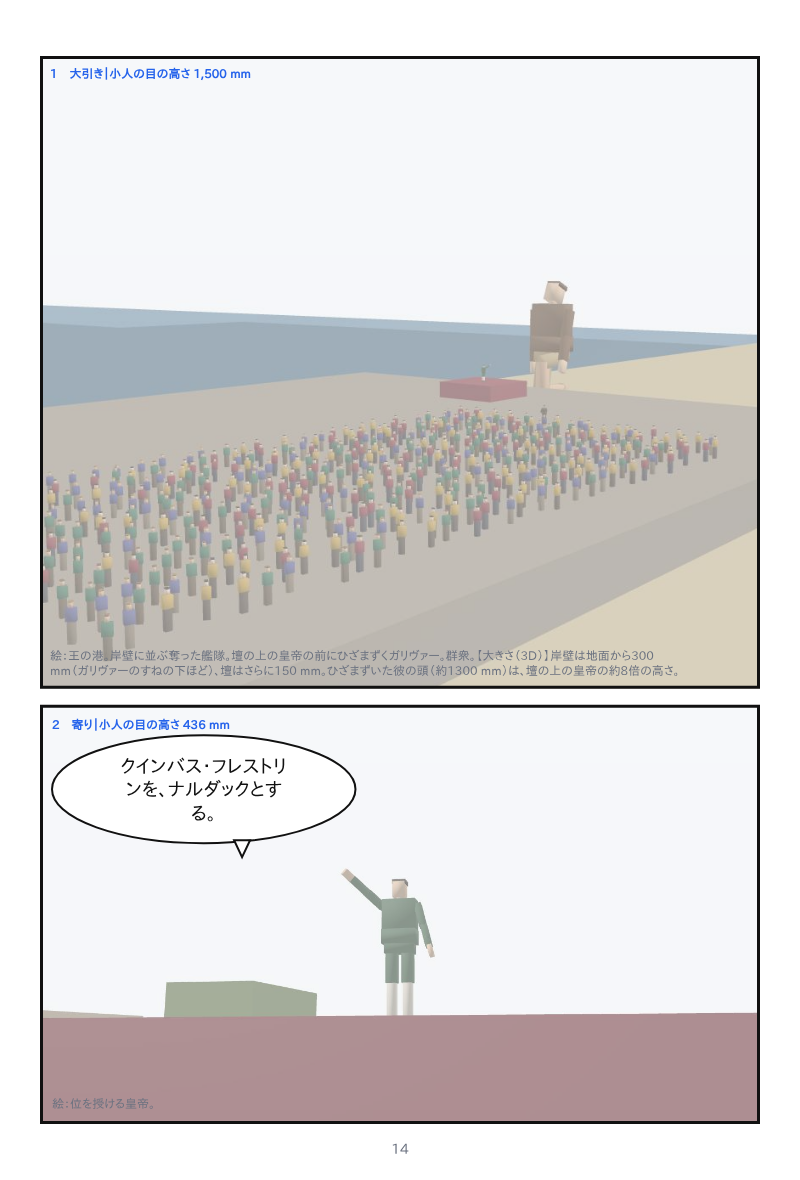
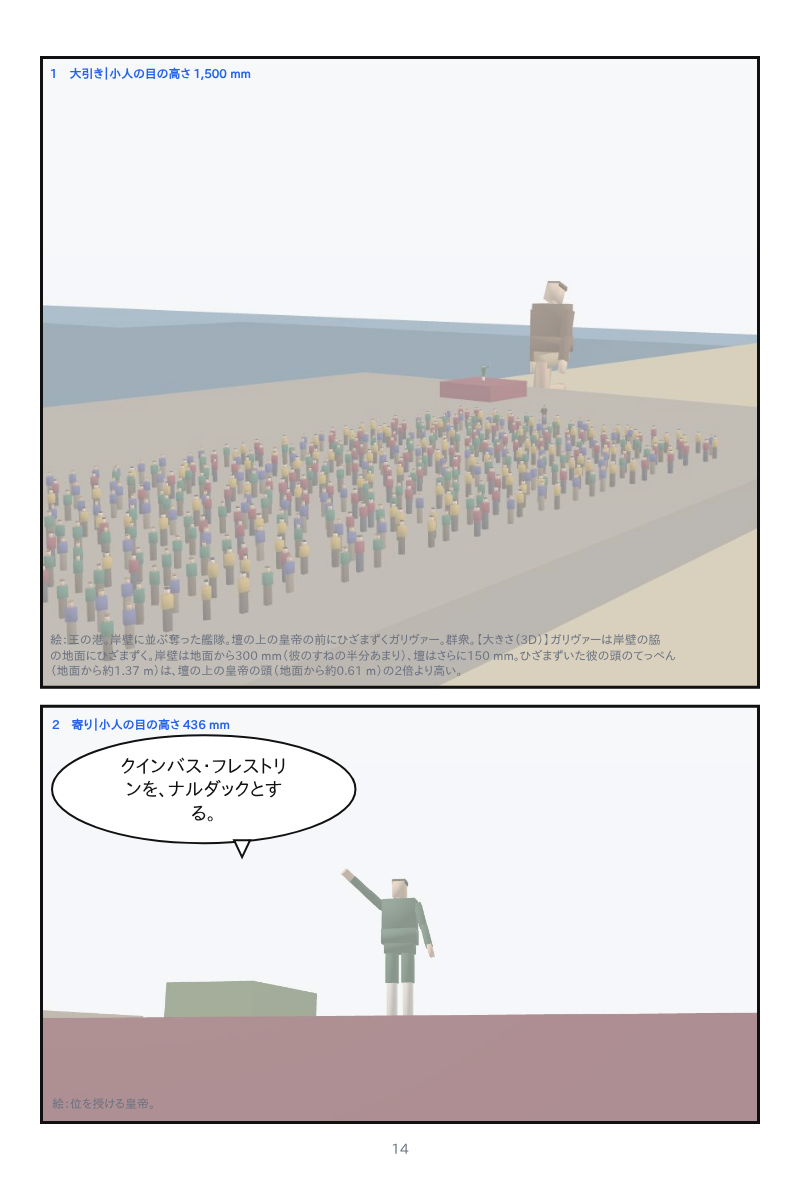
第3話ネーム：門・浅瀬・港のコマの大きさの数字を3Dの舞台に合わせる
- 6-4：神殿の門は約1.2 m（起こした頭の倍より高い）
- 13-2：水深300 mm の浅瀬なので膝は水面から約200 mm
- 14-1・15-1：ガリヴァーは岸壁の脇の地面にひざまずく（頭は地面から約1.37 m）

Claude-Session: https://claude.ai/code/session_01XJNGYHfC5R2ajPckUiqCxE

Changed region(s): [[0.0625, 0.5186, 0.8438, 0.5797]]

diff --git a/part1/name/gulliver-ep03-name.ts b/part1/name/gulliver-ep03-name.ts
@@ -93,7 +93,7 @@ export const EP03_NAME: NamePage[] = [
           { take: 1, shot: '寄り', cam: L('手のひらの脇から、礼をするレルドレサルを', 130), art: '深く礼をするレルドレサル。細い目が笑う。', w: 0.8 },
         ],
       },
-      { h: 4, panels: [{ take: 1, shot: '引き', cam: L('神殿の前の広場の端から、夕方、寝そべるガリヴァーと手のひらの小人を', 650), art: '夕方。寝そべるガリヴァーと、手のひらの上の小さな男。笑わないガリヴァーの顔。【大きさ（3D）】小人の背（150 mm）は、ガリヴァーの手の長さ（約190 mm）に少し足りない。神殿の扉は、寝そべるガリヴァーの肩ほどの高さ。', size: true }] },
+      { h: 4, panels: [{ take: 1, shot: '引き', cam: L('神殿の前の広場の端から、夕方、寝そべるガリヴァーと手のひらの小人を', 650), art: '夕方。寝そべるガリヴァーと、手のひらの上の小さな男。笑わないガリヴァーの顔。【大きさ（3D）】小人の背（150 mm）は、ガリヴァーの手の長さ（約190 mm）に少し足りない。神殿の門（高さ約1.2 m）は、肘をついて起こしたガリヴァーの頭のてっぺん（地面から約0.53 m）の倍より高い。', size: true }] },
     ],
   },
   // SC-010 艦隊（7ページ）
@@ -159,7 +159,7 @@ export const EP03_NAME: NamePage[] = [
     scene: 'SC-010',
     tiers: [
       { h: 5, panels: [{ take: 1, shot: '引き', cam: L('リリパットの浜の宮廷の後ろから、海を'), art: 'リリパットの浜で待つ皇帝と廷臣たち。海から頭だけが見え、その後ろを艦隊だけが進んでくる。不安な顔の宮廷。【大きさ（3D）】海から出たガリヴァーの頭（約250 mm）は、廷臣（150 mm）の背より大きい。', size: true }] },
-      { h: 5, panels: [{ take: 1, shot: '中', cam: L('浜の地面から、海から立ち上がるガリヴァーを見上げる'), art: '浅瀬で立ち上がり、綱を掲げて叫ぶガリヴァー。手前に驚く皇帝の背中。【大きさ（3D）】立ったガリヴァーの膝（約500 mm）は、皇帝（約160 mm）の3倍の高さ。【細い物（LN-e02-04）】掲げる綱は指より細い。', size: true }] },
+      { h: 5, panels: [{ take: 1, shot: '中', cam: L('浜の地面から、海から立ち上がるガリヴァーを見上げる'), art: '浅瀬で立ち上がり、綱を掲げて叫ぶガリヴァー。手前に驚く皇帝の背中。【大きさ（3D）】ガリヴァーは水深300 mm の浅瀬に立つので、膝は水面から約200 mm で、皇帝の背（約160 mm）より少し高いだけ。頭のてっぺんは水面から約1.45 m、皇帝の約9倍。【細い物（LN-e02-04）】掲げる綱は指より細い。', size: true }] },
     ],
   },
   // SC-011 ナルダック（3ページ）
@@ -167,14 +167,14 @@ export const EP03_NAME: NamePage[] = [
     scene: 'SC-011',
     turn: 'めくると王の港。',
     tiers: [
-      { h: 6, panels: [{ take: 1, shot: '大引き', cam: L('港の家並みの上から、岸壁と艦隊とひざまずくガリヴァーを', 1500), art: '王の港。岸壁に並ぶ奪った艦隊。壇の上の皇帝の前にひざまずくガリヴァー。群衆。【大きさ（3D）】岸壁は地面から300 mm（ガリヴァーのすねの下ほど）、壇はさらに150 mm。ひざまずいた彼の頭（約1300 mm）は、壇の上の皇帝の約8倍の高さ。', size: true }] },
+      { h: 6, panels: [{ take: 1, shot: '大引き', cam: L('港の家並みの上から、岸壁と艦隊とひざまずくガリヴァーを', 1500), art: '王の港。岸壁に並ぶ奪った艦隊。壇の上の皇帝の前にひざまずくガリヴァー。群衆。【大きさ（3D）】ガリヴァーは岸壁の脇の地面にひざまずく。岸壁は地面から300 mm（彼のすねの半分あまり）、壇はさらに150 mm。ひざまずいた彼の頭のてっぺん（地面から約1.37 m）は、壇の上の皇帝の頭（地面から約0.61 m）の2倍より高い。', size: true }] },
       { h: 4, panels: [{ take: 1, shot: '寄り', cam: L('壇の脇の岸壁から、皇帝を', QUAY), art: '位を授ける皇帝。' }] },
     ],
   },
   {
     scene: 'SC-011',
     tiers: [
-      { h: 3, panels: [{ take: 1, shot: '中', cam: L('岸壁の上から、ひざまずくガリヴァーを見上げる', QUAY), art: '頭を下げるガリヴァー（ひざまずいても、皇帝より何倍も高い）。【大きさ（3D）】ひざまずいた頭は岸壁から約1300 mm、岸壁の上の人（150 mm）の約9倍。', size: true }] },
+      { h: 3, panels: [{ take: 1, shot: '中', cam: L('岸壁の上から、ひざまずくガリヴァーを見上げる', QUAY), art: '頭を下げるガリヴァー（ひざまずいても、皇帝より何倍も高い）。【大きさ（3D）】地面にひざまずいた頭のてっぺんは地面から約1.37 m。岸壁の上の人の頭（地面から約0.45 m）の約3倍の高さで、岸壁から見上げる。', size: true }] },
       { h: 4, panels: [{ take: 1, shot: '中', cam: L('岸壁の群衆の中から', QUAY), art: '喝采する群衆。その端で拍手もせず立つボルゴラム。' }] },
       { h: 3, panels: [{ take: 1, shot: '寄り', cam: L('ボルゴラムを正面から', QUAY), art: '陰気な顔でつぶやくボルゴラム。' }] },
     ],
